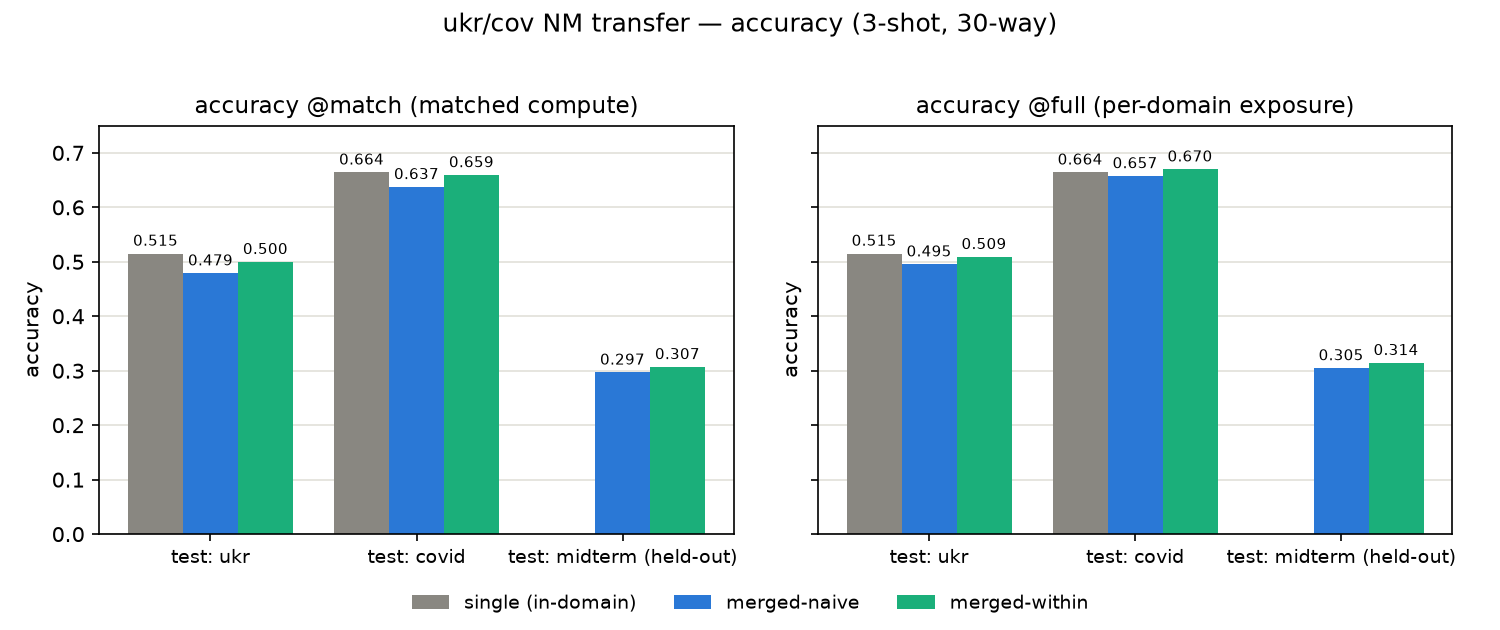
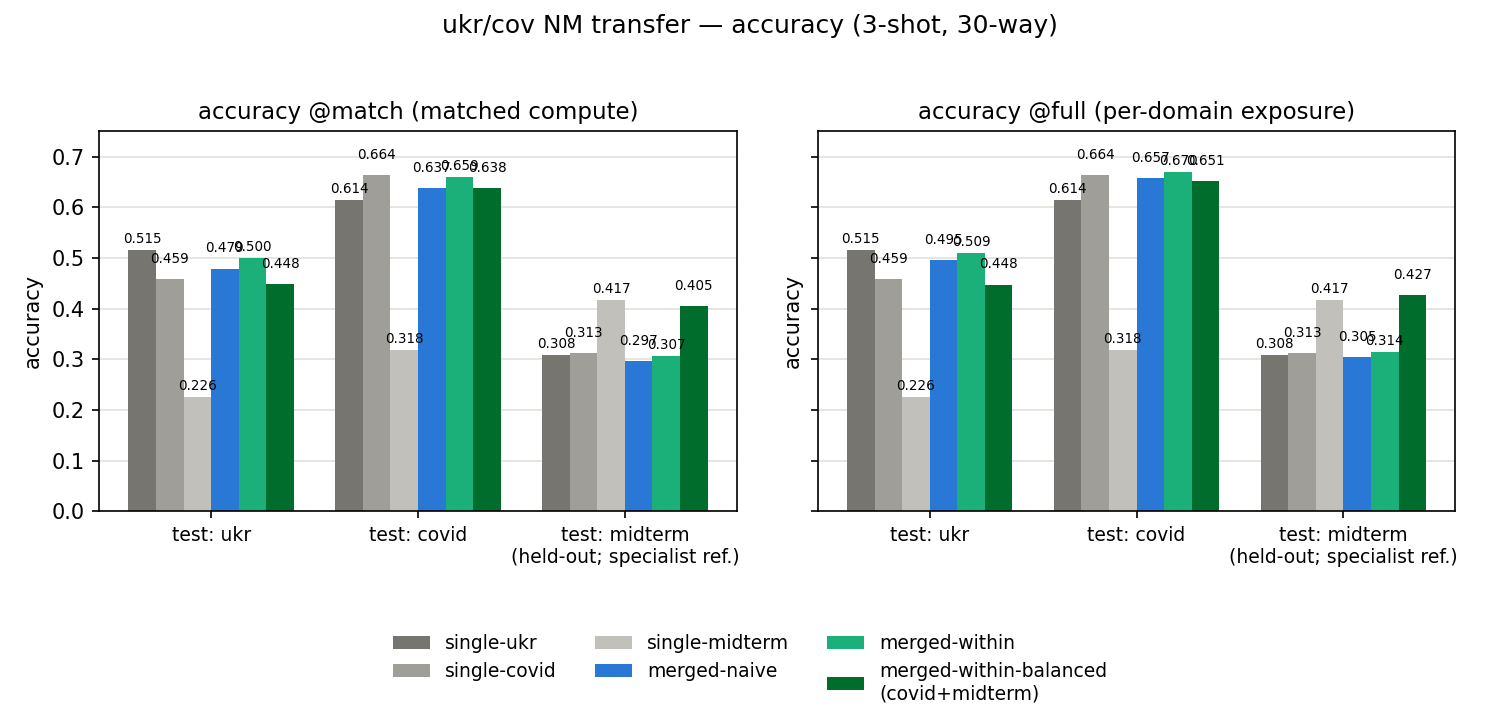
analysis: complete cross-source shortcut comparison

Changed region(s): [[0.0, 0.1206, 0.9813, 0.9952], [0.3067, 0.0, 0.7053, 0.0603]]

diff --git a/scripts/experiments/analysis/transfer/ablations/prodigy_nm/episode_sampling/nm_cross_source_shortcut/plot_shortcut.py b/scripts/experiments/analysis/transfer/ablations/prodigy_nm/episode_sampling/nm_cross_source_shortcut/plot_shortcut.py
@@ -19,15 +19,18 @@ import matplotlib
 matplotlib.use("Agg")
 import matplotlib.pyplot as plt
 
-# (csv-regime base, display label, colour). single in-domain is filled per test domain.
+# (csv-regime base, display label, colour). Single-source checkpoints are fixed
+# references and therefore repeat across the @match and @full panels.
 SERIES = [
-    ("single", "single (in-domain)", "#898781"),
+    ("single ukr", "single-ukr", "#777570"),
+    ("single covid", "single-covid", "#a09e98"),
+    ("single midterm", "single-midterm", "#c2c0ba"),
     ("merged proportional", "merged-naive", "#2a78d6"),
     ("merged within-source", "merged-within", "#1baf7a"),
+    ("merged within-balanced (covid+midterm)", "merged-within-balanced\n(covid+midterm)", "#006d2c"),
 ]
 TESTS = [("test:ukr", "test: ukr"), ("test:covid", "test: covid"),
-         ("test:midterm*", "test: midterm (held-out)")]
-SINGLE_BY_TEST = {"test:ukr": "single ukr", "test:covid": "single covid"}
+         ("test:midterm*", "test: midterm\n(held-out; specialist ref.)")]
 
 
 def load(csv_path: Path) -> dict:
@@ -39,9 +42,8 @@ def load(csv_path: Path) -> dict:
 
 
 def value(cells, metric, base, suffix, test):
-    if base == "single":
-        single = SINGLE_BY_TEST.get(test)  # no in-domain single for the held-out column
-        return cells.get((metric, single, test)) if single else None
+    if base.startswith("single "):
+        return cells.get((metric, base, test))
     return cells.get((metric, f"{base} {suffix}", test))
 
 
@@ -53,10 +55,12 @@ def plot_panel(ax, cells, metric, suffix, title):
         vals = [v if v is not None else 0.0 for v in raw]
         bars = ax.bar(x + (i - (n - 1) / 2) * width, vals, width, label=label, color=colour)
         for b, v in zip(bars, raw):
-            if v is not None:  # skip held-out cells with no in-domain single
-                ax.text(b.get_x() + b.get_width() / 2, v + 0.008, f"{v:.3f}", ha="center", va="bottom", fontsize=7)
+            if v is not None:
+                label_offset = 0.008 + (0.018 if i % 2 else 0.0)
+                ax.text(b.get_x() + b.get_width() / 2, v + label_offset, f"{v:.3f}",
+                        ha="center", va="bottom", fontsize=6.5)
     ax.set_xticks(x); ax.set_xticklabels([lbl for _, lbl in TESTS], fontsize=9)
-    ax.set_ylim(0, 0.75 if metric != "roc_auc" else 1.0)
+    ax.set_ylim(0, 0.75 if metric != "roc_auc" else 1.06)
     ax.set_ylabel(metric, fontsize=10); ax.set_title(title, fontsize=11)
     ax.grid(axis="y", color="#e1e0d9", linewidth=0.8); ax.set_axisbelow(True)
 
@@ -74,13 +78,13 @@ def main() -> int:
         csv_path = here / csv_path
     cells = load(csv_path)
 
-    fig, axes = plt.subplots(1, 2, figsize=(10, 4.2), sharey=True)
+    fig, axes = plt.subplots(1, 2, figsize=(10, 4.8), sharey=True)
     plot_panel(axes[0], cells, args.metric, "@match", f"{args.metric} @match (matched compute)")
     plot_panel(axes[1], cells, args.metric, "@full", f"{args.metric} @full (per-domain exposure)")
     handles, labels = axes[0].get_legend_handles_labels()
     fig.legend(handles, labels, loc="lower center", ncol=3, fontsize=9, frameon=False)
     fig.suptitle(f"ukr/cov NM transfer — {args.metric} (3-shot, 30-way)", fontsize=12)
-    fig.tight_layout(rect=(0, 0.06, 1, 0.96))
+    fig.tight_layout(rect=(0, 0.18, 1, 0.96))
     out = Path(args.out) if args.out else here / f"results_{args.metric}.png"
     fig.savefig(out, dpi=150); print(f"wrote {out}")
     return 0

diff --git a/scripts/experiments/analysis/transfer/ablations/prodigy_nm/episode_sampling/nm_cross_source_shortcut/compare_shortcut.py b/scripts/experiments/analysis/transfer/ablations/prodigy_nm/episode_sampling/nm_cross_source_shortcut/compare_shortcut.py
@@ -2,9 +2,10 @@
 """Compare NM test AUC across training regimes to test the cross-source-shortcut.
 
 Pulls `test_roc_auc` from the eval log dirs (eval_<model>_to_<dataset>_nm_0shot_*)
-for four models and prints a covid/ukr table plus the key verdict:
+for the study models and prints a covid/ukr/midterm table plus the key verdict:
 
   single-source        (nm_matrix_ukr / nm_matrix_covid)   -- reference ceiling
+  midterm specialist   (nm_cm_midterm)                     -- external held-out ceiling
   merged proportional  (nm_matrix_merged)                  -- baseline (shortcut on)
   merged within-source (nm_xsrc_within_source)             -- shortcut removed
 
@@ -28,10 +29,14 @@ from pathlib import Path
 MODELS = {
     "nm_matrix_ukr": "single ukr",
     "nm_matrix_covid": "single covid",
+    "nm_cm_midterm": "single midterm",
     "nm_matrix_merged_match": "merged proportional @match",
     "nm_matrix_merged_full": "merged proportional @full",
     "nm_xsrc_within_source_match": "merged within-source @match",
     "nm_xsrc_within_source_full": "merged within-source @full",
+    # Cross-corpus reference: trained on covid+midterm, not the ukr+covid merge.
+    "nm_cm_within_balanced_match": "merged within-balanced (covid+midterm) @match",
+    "nm_cm_within_balanced_full": "merged within-balanced (covid+midterm) @full",
     # fallbacks (single-checkpoint runs)
     "nm_matrix_merged": "merged proportional",
     "nm_xsrc_within_source": "merged within-source",
